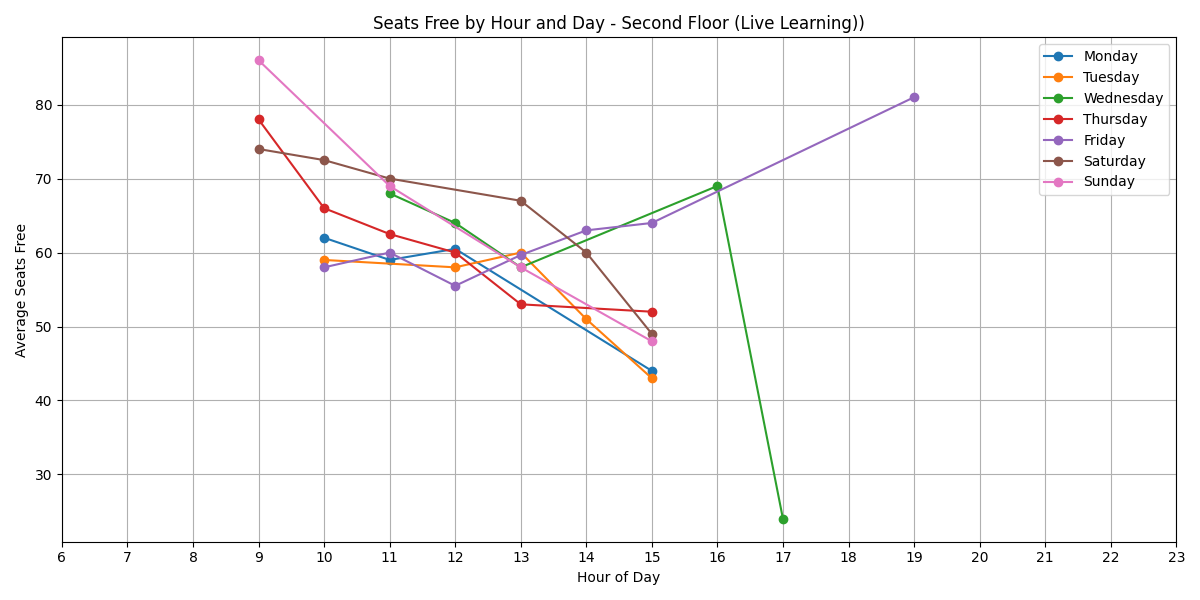
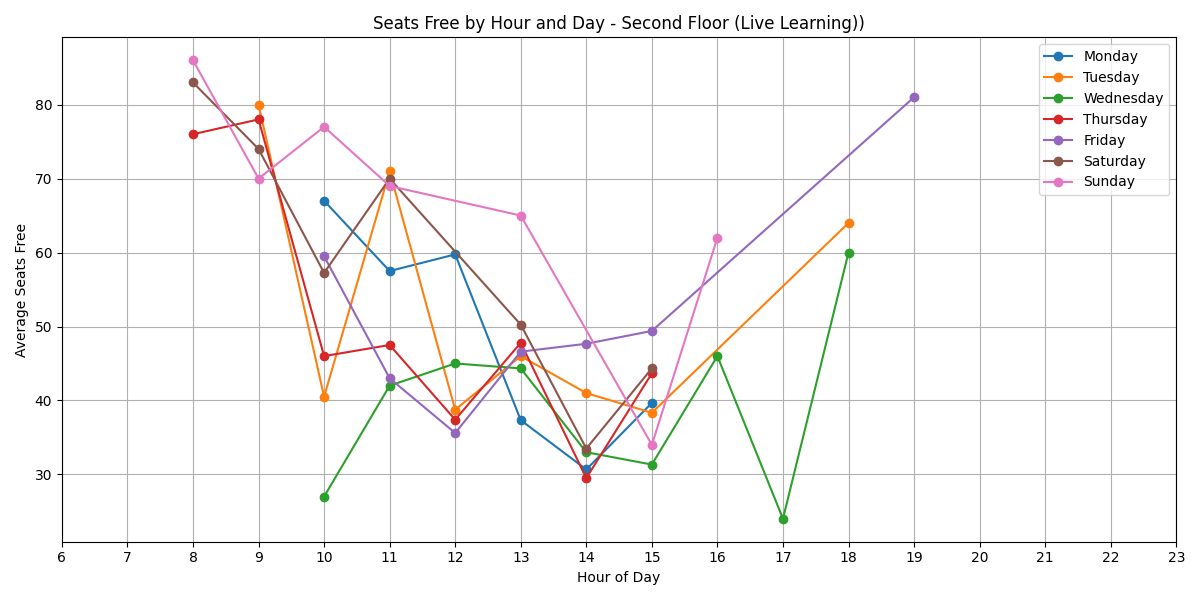
new website

diff --git a/new_website/website.html b/new_website/website.html
@@ -1,0 +1,142 @@
+<!DOCTYPE html>
+<html lang="en">
+<head>
+  <meta charset="UTF-8">
+  <title>Seat Availability Dashboard</title>
+  <script src="https://cdn.jsdelivr.net/npm/chart.js"></script>
+  <style>
+    body {
+      font-family: 'Roboto', sans-serif;
+      background: #f8f9fa;
+      color: #333;
+      margin: 0;
+      padding: 2rem;
+    }
+    h1 {
+      text-align: center;
+      margin-bottom: 1rem;
+    }
+    .controls {
+      text-align: center;
+      margin-bottom: 2rem;
+    }
+    select {
+      padding: 0.5rem;
+      font-size: 1rem;
+    }
+    .chart-container {
+      display: flex;
+      flex-wrap: wrap;
+      gap: 2rem;
+      justify-content: center;
+    }
+    .chart-box {
+      background: #fff;
+      padding: 1rem;
+      border-radius: 12px;
+      box-shadow: 0 2px 8px rgba(0,0,0,0.1);
+      width: 600px;
+    }
+    canvas {
+      width: 100% !important;
+      height: auto !important;
+    }
+  </style>
+</head>
+<body>
+
+<h1>Live Seat Availability by Location</h1>
+
+<div class="controls">
+  <label for="daySelector">Select Day: </label>
+  <select id="daySelector">
+    <option>Monday</option>
+    <option>Tuesday</option>
+    <option>Wednesday</option>
+    <option>Thursday</option>
+    <option>Friday</option>
+    <option>Saturday</option>
+    <option>Sunday</option>
+  </select>
+</div>
+
+<div class="chart-container" id="chartContainer"></div>
+
+<script>
+  const hours = Array.from({length: 18}, (_, i) => `${i + 6}:00`);
+
+  let charts = [];
+
+  async function loadAndRender(day) {
+    const res = await fetch('../output/seat_busyness.json');
+    const data = await res.json();
+
+    const container = document.getElementById('chartContainer');
+    container.innerHTML = ''; // Clear previous
+
+    charts.forEach(c => c.destroy());
+    charts = [];
+
+    for (const [location, days] of Object.entries(data)) {
+      const values = days[day] || [];
+
+      const chartBox = document.createElement('div');
+      chartBox.className = 'chart-box';
+      const canvas = document.createElement('canvas');
+      chartBox.appendChild(canvas);
+      container.appendChild(chartBox);
+
+      const chart = new Chart(canvas, {
+        type: 'bar',
+        data: {
+          labels: hours,
+          datasets: [{
+            label: 'Seats Free',
+            data: values,
+            backgroundColor: values.map(v => {
+              if (v >= 15) return '#28a745'; // green
+              if (v >= 10) return '#ffc107'; // yellow
+              if (v >= 5) return '#fd7e14';  // orange
+              return '#dc3545';             // red
+            })
+          }]
+        },
+        options: {
+          responsive: true,
+          plugins: {
+            title: {
+              display: true,
+              text: location,
+              font: {
+                size: 18
+              }
+            },
+            legend: { display: false }
+          },
+          scales: {
+            y: {
+              beginAtZero: true,
+              title: {
+                display: true,
+                text: 'Seats Free'
+              }
+            }
+          }
+        }
+      });
+
+      charts.push(chart);
+    }
+  }
+
+  // Set up dropdown
+  document.getElementById('daySelector').addEventListener('change', (e) => {
+    loadAndRender(e.target.value);
+  });
+
+  // Initial render
+  loadAndRender('Monday');
+</script>
+
+</body>
+</html>

diff --git a/graph_plotter.py b/graph_plotter.py
@@ -1,6 +1,13 @@
 import pandas as pd
 import matplotlib.pyplot as plt
 import os
+import argparse
+from datetime import timedelta
+
+# Setup argument parser
+parser = argparse.ArgumentParser(description='Generate seat availability plots.')
+parser.add_argument('--last-two-weeks', action='store_true', help='Limit data to the last two weeks only.')
+args = parser.parse_args()
 
 # Load the data
 file_path = 'seat_availability.csv'
@@ -11,6 +18,16 @@ data = data[data['Seats Free'] != '??']
 data['Timestamp'] = pd.to_datetime(data['Timestamp'])
 data['Seats Free'] = pd.to_numeric(data['Seats Free'], errors='coerce')
 data = data.dropna(subset=['Seats Free'])
+
+# Filter to last 2 weeks if argument is passed
+if args.last_two_weeks:
+    end_date = data['Timestamp'].max()
+    start_date = end_date - timedelta(weeks=2)
+    data = data[(data['Timestamp'] >= start_date) & (data['Timestamp'] <= end_date)]
+    date_suffix = f"{start_date.date()}_to_{end_date.date()}"
+    output_dir = f'seat_availability_plots_last_2_weeks_{date_suffix}'
+else:
+    output_dir = 'seat_availability_plots'
 
 # Sort and remove consecutive identical measurements per location
 data = data.sort_values(by=['Location', 'Timestamp'])
@@ -26,18 +43,15 @@ data = data[(data['Hour'] >= 6) & (data['Hour'] <= 23)]
 # Get all unique locations and weekday names
 locations = data['Location'].unique()
 weekdays = ['Monday', 'Tuesday', 'Wednesday', 'Thursday', 'Friday', 'Saturday', 'Sunday']
-
-# Set the desired hour range for x-axis
 hour_range = list(range(6, 24))
 
 # Create output directory
-output_dir = 'seat_availability_plots'
 os.makedirs(output_dir, exist_ok=True)
 
 # Plot for each location
 for location in locations:
     location_data = data[data['Location'] == location]
-    
+
     plt.figure(figsize=(12, 6))
 
     for day in weekdays:
@@ -54,7 +68,12 @@ for location in locations:
     plt.tight_layout()
 
     safe_location_name = location.replace(' ', '_').replace(':', '').replace('(', '').replace(')', '')
-    plt.savefig(os.path.join(output_dir, f'{safe_location_name}_by_day.png'))
+    filename = f'{safe_location_name}_by_day'
+    if args.last_two_weeks:
+        filename += f'_{date_suffix}'
+    filename += '.png'
+
+    plt.savefig(os.path.join(output_dir, filename))
     plt.close()
 
-print(f"Updated plots saved in {output_dir}")
+print(f"Plots saved in '{output_dir}'")
